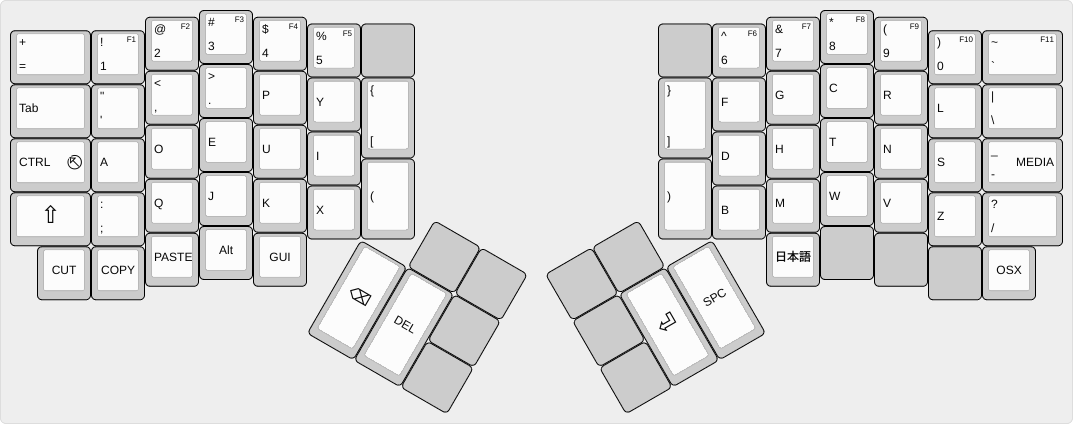
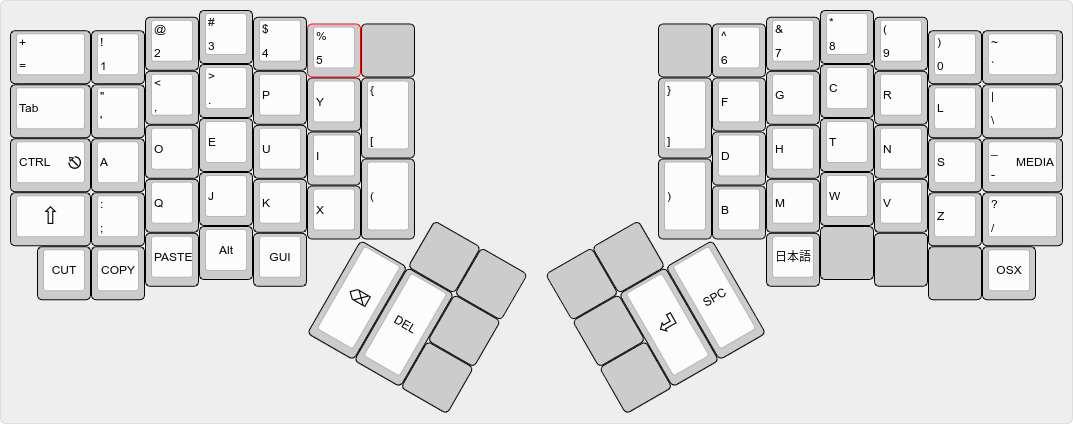
Added WWW media keys and updated media layer img

diff --git a/keymap.c b/keymap.c
@@ -94,11 +94,11 @@ ALT+SUPER is used for switching input language mode.
  * ,--------------------------------------------------.           ,--------------------------------------------------.
  * |        |  F1  |  F2  |  F3  |  F4  |  F5  |      |           |      |  F6  |  F7  |  F8  |  F9  |  F10 |  F11   |
  * |--------+------+------+------+------+-------------|           |------+------+------+------+------+------+--------|
- * |        |      | Home |  Up  | PgUp |      |      |           |Scroll|      |MsUpL | MsUp |MnUpR |      |        |
- * |--------+------+------+------+------+------|      |           |Up    |------+------+------+------+------+--------|
- * |        |      | Left | Down | Right|      |------|           |------|      |MsLeft| MsDn |MsRght|      |        |
- * |--------+------+------+------+------+------|      |           |Scroll|------+------+------+------+------+--------|
- * |        |      | End  | Down | PgDn |      |      |           |Down  |      |MsDnL | MsDn |MsDnR |      |        |
+ * |        |      | Home |  Up  | PgUp |      |WWW   |           |WWW   |ScrlUp| MsUp |MnUpR |      |        |
+ * |--------+------+------+------+------+------|Back  |           |Forwd |------+------+------+------+------+--------|
+ * |        |      | Left | Down | Right|      |------|           |------|ScrlDn|MsLeft| MsDn |MsRght|      |        |
+ * |--------+------+------+------+------+------|WWW   |           |WWW   |------+------+------+------+------+--------|
+ * |        |      | End  | Down | PgDn |      |Search|           |Home  |      |MsDnL | MsDn |MsDnR |      |        |
  * `--------+------+------+------+------+-------------'           `-------------+------+------+------+------+--------'
  *   |      |      |      |      |      |                                       |      |      |      |      |      |
  *   `----------------------------------'                                       `----------------------------------'
@@ -113,18 +113,18 @@ ALT+SUPER is used for switching input language mode.
 // MEDIA AND MOUSE
 [MEDIA] = KEYMAP(
        KC_TRNS, KC_F1,      KC_F2,      KC_F3,      KC_F4,      KC_F5,      KC_TRNS,
-       KC_TRNS, KC_TRNS,    KC_HOME,    KC_UP,      KC_PGUP,    KC_TRNS,    KC_TRNS,
+       KC_TRNS, KC_TRNS,    KC_HOME,    KC_UP,      KC_PGUP,    KC_TRNS,    KC_WBAK,
        KC_TRNS, KC_TRNS,    KC_LEFT,    KC_DOWN,    KC_RGHT,    KC_TRNS,
-       KC_TRNS, KC_TRNS,    KC_END,     KC_DOWN,    KC_PGDN,    KC_TRNS,    KC_TRNS,
+       KC_TRNS, KC_TRNS,    KC_END,     KC_DOWN,    KC_PGDN,    KC_TRNS,    KC_WSCH,
        KC_TRNS, KC_TRNS,    KC_TRNS,    KC_TRNS,    KC_TRNS,
                                                                 KC_TRNS,    KC_MUTE,
                                                                 KC_VOLU,
                                                     KC_MPLY,    KC_MSTP,    KC_VOLD,
        // right hand
        KC_TRNS, KC_F6,      KC_F7,      KC_F8,      KC_F9,      KC_F10,     KC_F11,
-       KC_WH_U, KC_TRNS,    M(A_MUL),   KC_MS_U,    M(A_MUR),   KC_TRNS,    KC_TRNS,
-                KC_TRNS,    KC_MS_L,    KC_MS_D,    KC_MS_R,    KC_TRNS,    KC_TRNS,
-       KC_WH_D, KC_TRNS,    M(A_MDL),   KC_MS_D,    M(A_MDR),   KC_TRNS,    KC_TRNS,
+       KC_WFWD, KC_WH_U,    M(A_MUL),   KC_MS_U,    M(A_MUR),   KC_TRNS,    KC_TRNS,
+                KC_WH_D,    KC_MS_L,    KC_MS_D,    KC_MS_R,    KC_TRNS,    KC_TRNS,
+       KC_WHOM, KC_TRNS,    M(A_MDL),   KC_MS_D,    M(A_MDR),   KC_TRNS,    KC_TRNS,
                             KC_TRNS,    KC_TRNS,    KC_TRNS,    KC_TRNS,    KC_TRNS,
        KC_MPRV, KC_MNXT,
        KC_TRNS,
@@ -179,11 +179,11 @@ ALT+SUPER is used for switching input language mode.
  * ,--------------------------------------------------.           ,--------------------------------------------------.
  * |        |  F1  |  F2  |  F3  |  F4  |  F5  |      |           |      |  F6  |  F7  |  F8  |  F9  |  F10 |  F11   |
  * |--------+------+------+------+------+-------------|           |------+------+------+------+------+------+--------|
- * |        |      | Home |  Up  | PgUp |      |      |           |Scroll|      |MsUpL | MsUp |MnUpR |      |        |
- * |--------+------+------+------+------+------|      |           |Up    |------+------+------+------+------+--------|
- * |        |      | Left | Down | Right|      |------|           |------|      |MsLeft| MsDn |MsRght|      |        |
- * |--------+------+------+------+------+------|      |           |Scroll|------+------+------+------+------+--------|
- * |        |      | End  | Down | PgDn |      |      |           |Down  |      |MsDnL | MsDn |MsDnR |      |        |
+ * |        |      | Home |  Up  | PgUp |      |WWW   |           |WWW   |ScrlUp|MsUpL | MsUp |MnUpR |      |        |
+ * |--------+------+------+------+------+------|Back  |           |Forwd |------+------+------+------+------+--------|
+ * |        |      | Left | Down | Right|      |------|           |------|ScrlDn|MsLeft| MsDn |MsRght|      |        |
+ * |--------+------+------+------+------+------|WWW   |           |WWW   |------+------+------+------+------+--------|
+ * |        |      | End  | Down | PgDn |      |Search|           |Home  |      |MsDnL | MsDn |MsDnR |      |        |
  * `--------+------+------+------+------+-------------'           `-------------+------+------+------+------+--------'
  *   |      |      |      |      |      |                                       |      |      |      |      |      |
  *   `----------------------------------'                                       `----------------------------------'
@@ -198,18 +198,18 @@ ALT+SUPER is used for switching input language mode.
 // MEDIA AND MOUSE for OSX
 [OSXMEDIA] = KEYMAP(
        KC_TRNS, KC_F1,      KC_F2,      KC_F3,      KC_F4,      KC_F5,      KC_TRNS,
-       KC_TRNS, KC_TRNS,    KC_HOME,    KC_UP,      KC_PGUP,    KC_TRNS,    KC_TRNS,
+       KC_TRNS, KC_TRNS,    KC_HOME,    KC_UP,      KC_PGUP,    KC_TRNS,    KC_WBAK,
        KC_TRNS, KC_TRNS,    KC_LEFT,    KC_DOWN,    KC_RGHT,    KC_TRNS,
-       KC_TRNS, KC_TRNS,    KC_END,     KC_DOWN,    KC_PGDN,    KC_TRNS,    KC_TRNS,
+       KC_TRNS, KC_TRNS,    KC_END,     KC_DOWN,    KC_PGDN,    KC_TRNS,    KC_WSCH,
        KC_TRNS, KC_TRNS,    KC_TRNS,    KC_TRNS,    KC_TRNS,
                                                                 KC_TRNS,    KC_MUTE,
                                                                             KC_VOLU,
                                                     KC_MPLY,    KC_MSTP,    KC_VOLD,
        // right hand
        KC_TRNS, KC_F6,      KC_F7,      KC_F8,      KC_F9,      KC_F10,     KC_F11,
-       KC_WH_U, KC_TRNS,    M(A_MUL),   KC_MS_U,    M(A_MUR),   KC_TRNS,    KC_TRNS,
-                KC_TRNS,    KC_MS_L,    KC_MS_D,    KC_MS_R,    KC_TRNS,    KC_TRNS,
-       KC_WH_D, KC_TRNS,    M(A_MDL),   KC_MS_D,    M(A_MDR),   KC_TRNS,    KC_TRNS,
+       KC_WFWD, KC_WH_U,    M(A_MUL),   KC_MS_U,    M(A_MUR),   KC_TRNS,    KC_TRNS,
+                KC_WH_D,    KC_MS_L,    KC_MS_D,    KC_MS_R,    KC_TRNS,    KC_TRNS,
+       KC_WHOM, KC_TRNS,    M(A_MDL),   KC_MS_D,    M(A_MDR),   KC_TRNS,    KC_TRNS,
                             KC_TRNS,    KC_TRNS,    KC_TRNS,    KC_TRNS,    KC_TRNS,
        KC_MPRV, KC_MNXT,
        KC_TRNS,
